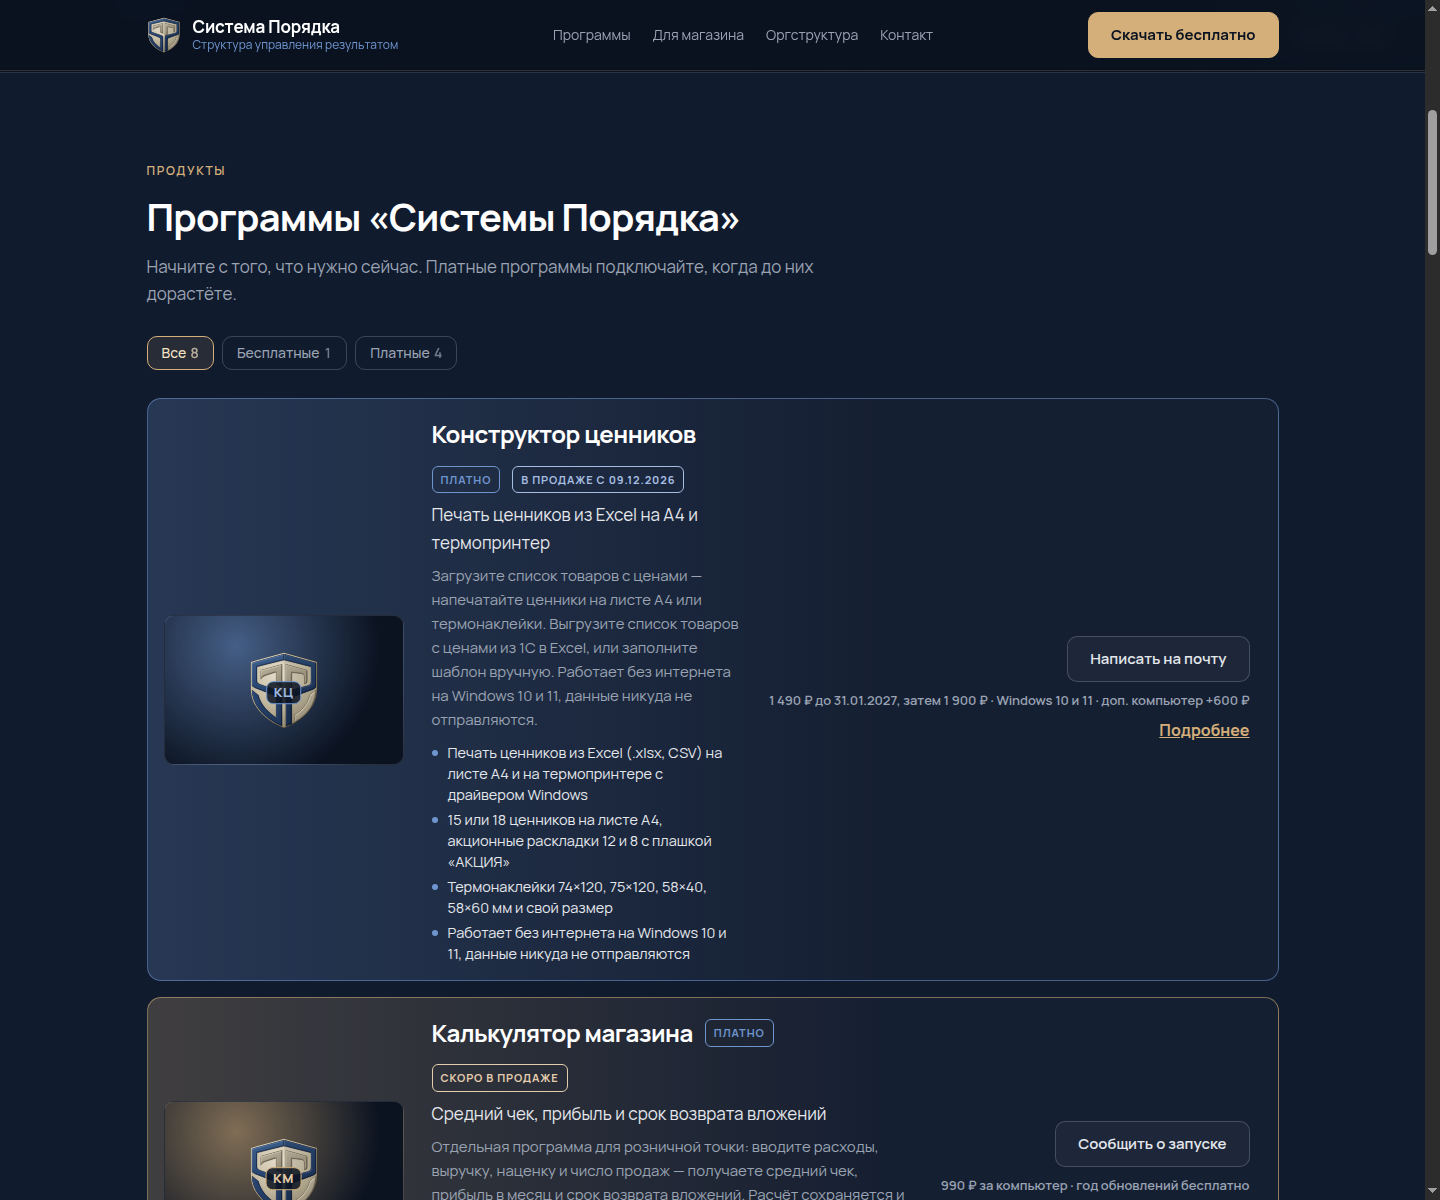
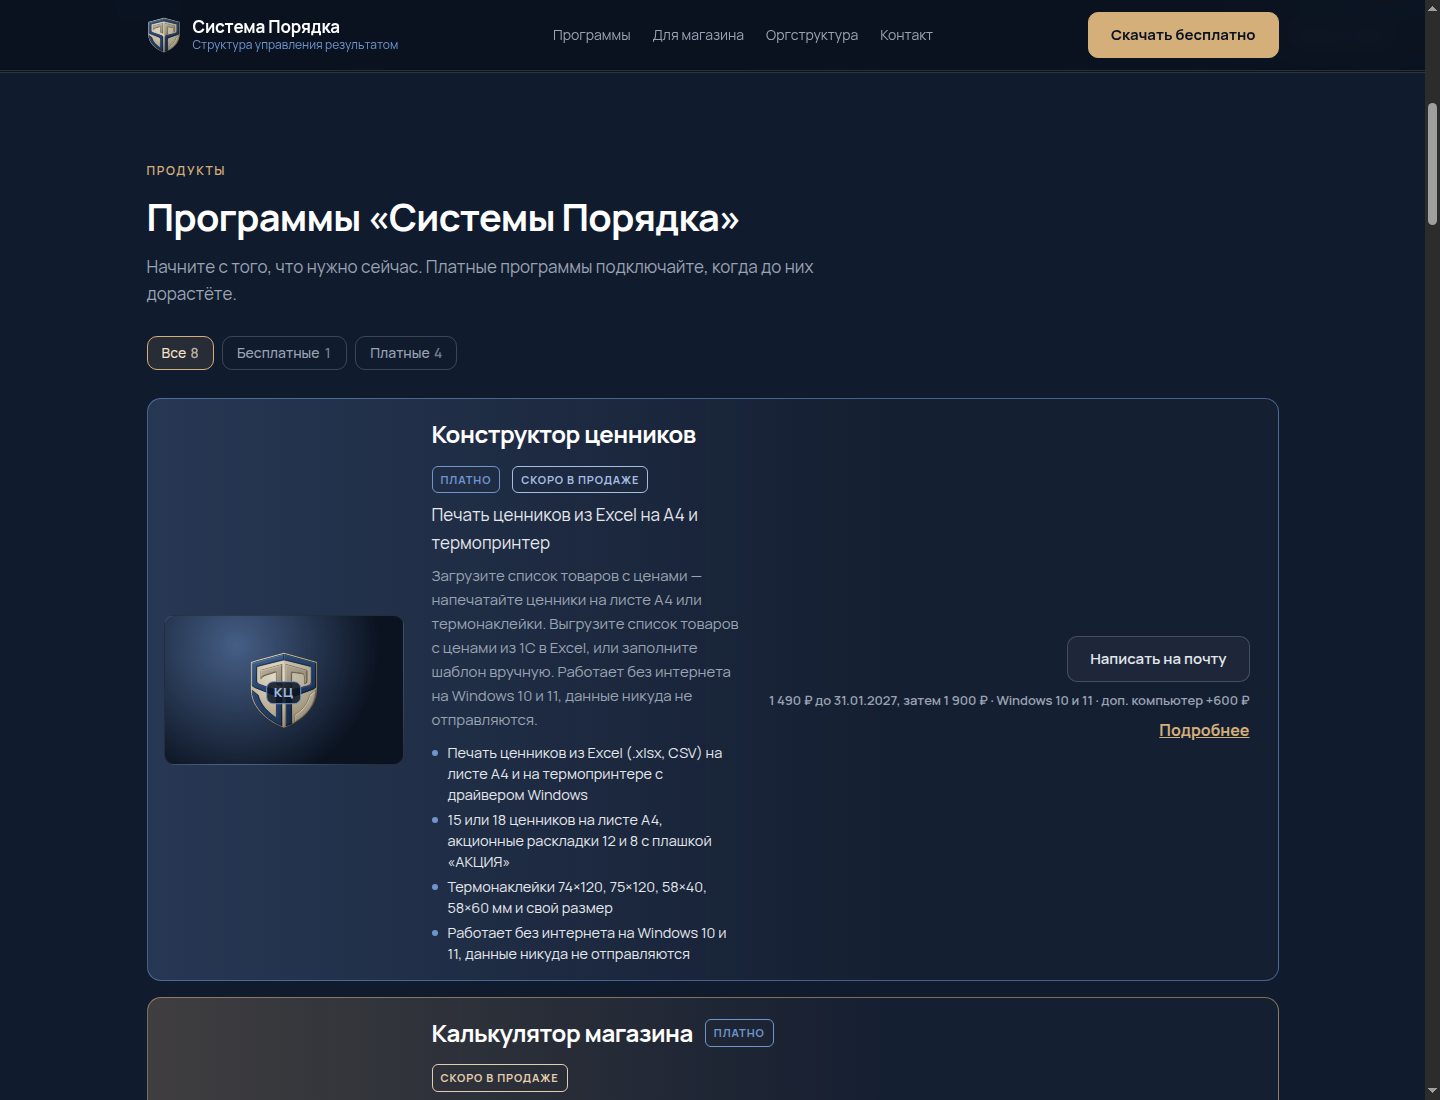
Убрать дату старта ценников и продление калькулятора
Бейдж конструктора ценников — «Скоро в продаже», без 09.12.2026.
У калькулятора на странице магазина остаётся цена и год обновлений.

diff --git a/magazin/index.html b/magazin/index.html
@@ -567,7 +567,7 @@
         <span>Для магазина</span>
       </nav>
       <h1>Система Порядка для магазина</h1>
-      <p class="lead">Программы «Системы Порядка» для розничного магазина. Главное сейчас — «Конструктор ценников»: печать из Excel на лист A4 и термопринтер, в продаже с 09.12.2026. «Калькулятор магазина» — отдельная программа, скоро в продаже.</p>
+      <p class="lead">Программы «Системы Порядка» для розничного магазина. Главное сейчас — «Конструктор ценников»: печать из Excel на лист A4 и термопринтер, скоро в продаже. «Калькулятор магазина» — отдельная программа, скоро в продаже.</p>
     </div>
   </section>
 
@@ -578,7 +578,7 @@
         <p>Программа для печати ценников из Excel на A4 и термопринтер. Офлайн-программа для Windows 10 и 11 от «Системы Порядка». 1 490 ₽ до 31.01.2027: лицензия навсегда, обновления — год бесплатно.</p>
       </div>
       <div class="offer-cta">
-        <p class="tariff-flag offer-plaque">В продаже с 09.12.2026</p>
+        <p class="tariff-flag offer-plaque">Скоро в продаже</p>
         <div class="actions">
           <a class="btn btn-gold" href="mailto:R.SH.69.73@yandex.ru?subject=%D0%9A%D0%BE%D0%BD%D1%81%D1%82%D1%80%D1%83%D0%BA%D1%82%D0%BE%D1%80%20%D1%86%D0%B5%D0%BD%D0%BD%D0%B8%D0%BA%D0%BE%D0%B2%20%E2%80%94%20%D0%B2%D0%BE%D0%BF%D1%80%D0%BE%D1%81">Написать на почту</a>
         </div>
@@ -686,7 +686,7 @@
           <li>До 31.01.2027 лицензия на один компьютер стоит <strong>1 490 ₽</strong>, затем <strong>1 900 ₽</strong>.</li>
           <li>Каждый дополнительный компьютер — <strong>+600 ₽</strong>.</li>
           <li>Лицензия навсегда, обновления — год бесплатно.</li>
-          <li>С 09.12.2026 — оплата онлайн, ключ отправим на почту вручную.</li>
+          <li>Скоро — оплата онлайн, ключ отправим на почту.</li>
         </ul>
         <div class="actions">
           <a class="btn btn-gold" href="mailto:R.SH.69.73@yandex.ru?subject=%D0%9A%D0%BE%D0%BD%D1%81%D1%82%D1%80%D1%83%D0%BA%D1%82%D0%BE%D1%80%20%D1%86%D0%B5%D0%BD%D0%BD%D0%B8%D0%BA%D0%BE%D0%B2%20%E2%80%94%20%D0%B2%D0%BE%D0%BF%D1%80%D0%BE%D1%81">Написать на почту</a>
@@ -731,7 +731,7 @@
           </div>
           <div>
             <dt>Как купить программу?</dt>
-            <dd>Напишите на <a href="mailto:R.SH.69.73@yandex.ru">R.SH.69.73@yandex.ru</a>. С 09.12.2026 — оплата онлайн, ключ отправим на почту вручную.</dd>
+            <dd>Напишите на <a href="mailto:R.SH.69.73@yandex.ru">R.SH.69.73@yandex.ru</a>. Скоро — оплата онлайн, ключ отправим на почту.</dd>
           </div>
           <div>
             <dt>Windows показывает предупреждение SmartScreen. Это нормально?</dt>
@@ -741,7 +741,7 @@
       </div>
 
       <div class="subblock">
-        <p>Загрузите список товаров с ценами из Excel — напечатайте ценники на A4 или термопринтере. Офлайн-программа для Windows. 1 490 ₽ до 31.01.2027: лицензия навсегда, обновления — год бесплатно. В продаже с 09.12.2026.</p>
+        <p>Загрузите список товаров с ценами из Excel — напечатайте ценники на A4 или термопринтере. Офлайн-программа для Windows. 1 490 ₽ до 31.01.2027: лицензия навсегда, обновления — год бесплатно. Скоро в продаже.</p>
         <div class="actions">
           <a class="btn btn-gold" href="mailto:R.SH.69.73@yandex.ru?subject=%D0%9A%D0%BE%D0%BD%D1%81%D1%82%D1%80%D1%83%D0%BA%D1%82%D0%BE%D1%80%20%D1%86%D0%B5%D0%BD%D0%BD%D0%B8%D0%BA%D0%BE%D0%B2%20%E2%80%94%20%D0%B2%D0%BE%D0%BF%D1%80%D0%BE%D1%81">Написать на почту</a>
         </div>
@@ -771,7 +771,7 @@
       <div class="subblock">
         <h3>Цена и статус</h3>
         <ul class="plain">
-          <li>990 ₽ за компьютер, год обновлений бесплатно, продление обновлений — 50 % от цены.</li>
+          <li>990 ₽ за компьютер, год обновлений бесплатно.</li>
           <li>Скоро в продаже.</li>
         </ul>
       </div>

diff --git a/index.html b/index.html
@@ -4,13 +4,13 @@
 <meta charset="utf-8" />
 <meta name="viewport" content="width=device-width, initial-scale=1, viewport-fit=cover" />
 <title>Система Порядка — программы для магазина и компании</title>
-<meta name="description" content="Офлайн-программы «Системы Порядка» для магазина и компании. Конструктор ценников — в продаже с 09.12.2026, калькулятор — скоро. Почта: R.SH.69.73@yandex.ru." />
+<meta name="description" content="Офлайн-программы «Системы Порядка» для магазина и компании. Конструктор ценников — скоро в продаже, калькулятор — скоро. Почта: R.SH.69.73@yandex.ru." />
 <link rel="canonical" href="https://romshil6973-droid.github.io/sistema-poryadka/" />
 <meta property="og:type" content="website" />
 <meta property="og:locale" content="ru_RU" />
 <meta property="og:url" content="https://romshil6973-droid.github.io/sistema-poryadka/" />
 <meta property="og:title" content="Система Порядка — программы для магазина и компании" />
-<meta property="og:description" content="Офлайн-программы «Системы Порядка» для магазина и компании. Конструктор ценников — в продаже с 09.12.2026, калькулятор — скоро. Почта: R.SH.69.73@yandex.ru." />
+<meta property="og:description" content="Офлайн-программы «Системы Порядка» для магазина и компании. Конструктор ценников — скоро в продаже, калькулятор — скоро. Почта: R.SH.69.73@yandex.ru." />
 <meta property="og:image" content="https://romshil6973-droid.github.io/sistema-poryadka/assets/og-image.png" />
 <meta name="theme-color" content="#0B1321" />
 <link rel="icon" href="assets/favicon.svg" type="image/svg+xml" />
@@ -580,7 +580,7 @@
       <div class="section-head">
         <p class="eyebrow">Розница</p>
         <h2>Для магазина</h2>
-        <p>«Конструктор ценников» печатает ценники из Excel на A4 и термопринтер, в продаже с 09.12.2026.</p>
+        <p>«Конструктор ценников» печатает ценники из Excel на A4 и термопринтер, скоро в продаже.</p>
         <p>«Калькулятор магазина» считает средний чек, прибыль и срок возврата вложений, скоро в продаже. Подробности и цена — в разделе для магазина.</p>
       </div>
       <div class="actions">

diff --git a/CATALOG.md b/CATALOG.md
@@ -90,7 +90,7 @@
 | `meta` | нет | Системные требования, размер — мелко под кнопкой рядом с ценой. |
 | `image`, `imageAlt` | нет | Скриншот и его описание. |
 | `page` | нет | Необязательное. Полный https-адрес страницы продукта на витрине. Относительные ссылки нельзя, потому что файл читают и программы. На карточке появляется ссылка «Подробнее». |
-| `statusLabel` | нет | Подпись бейджа у карточки `soon`, от 2 до 30 знаков. Например `В продаже с 09.12.2026` или `Скоро в продаже`. Нет поля — бейдж «В разработке». |
+| `statusLabel` | нет | Подпись бейджа у карточки `soon`, от 2 до 30 знаков. Например `Скоро в продаже`. Нет поля — бейдж «В разработке». |
 | `hidden` | нет | `true` — запись остаётся в файле, но на витрину не выводится и в счётчики фильтров не входит. |
 
 ## Правила витрины
